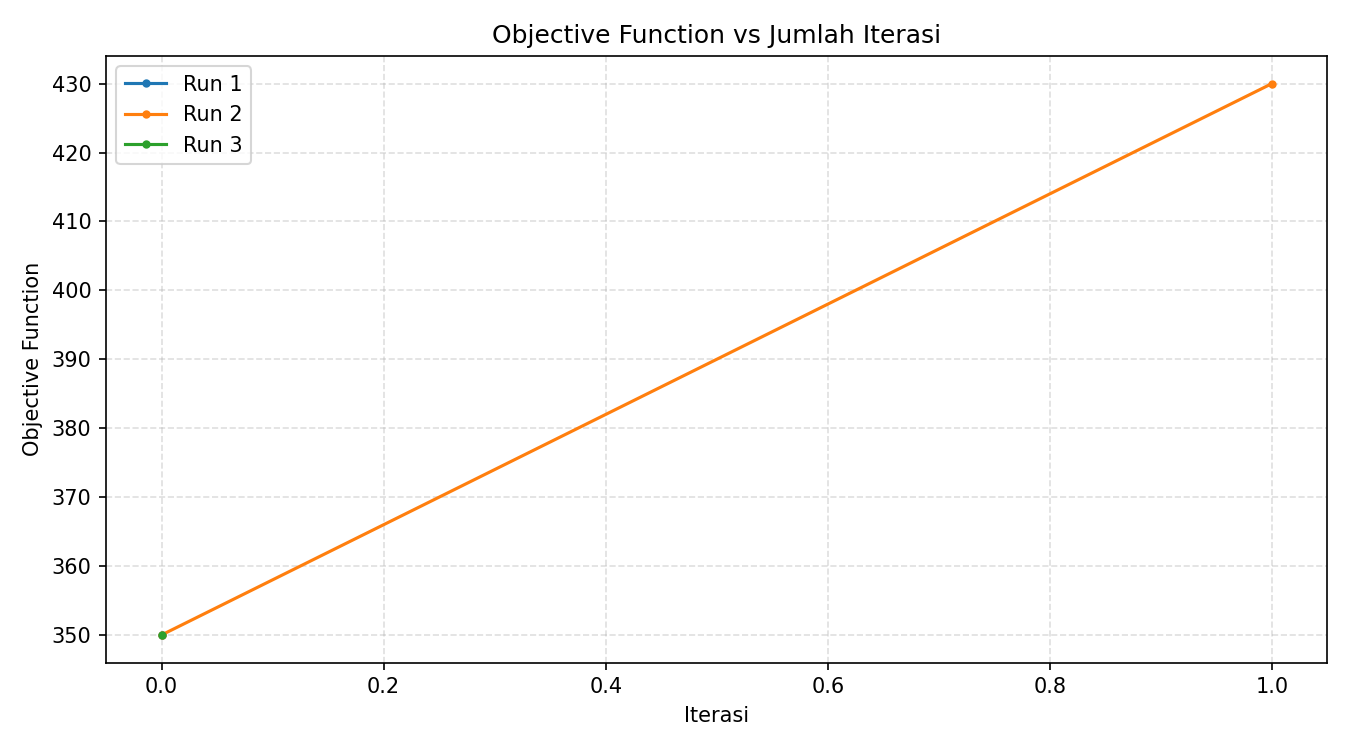
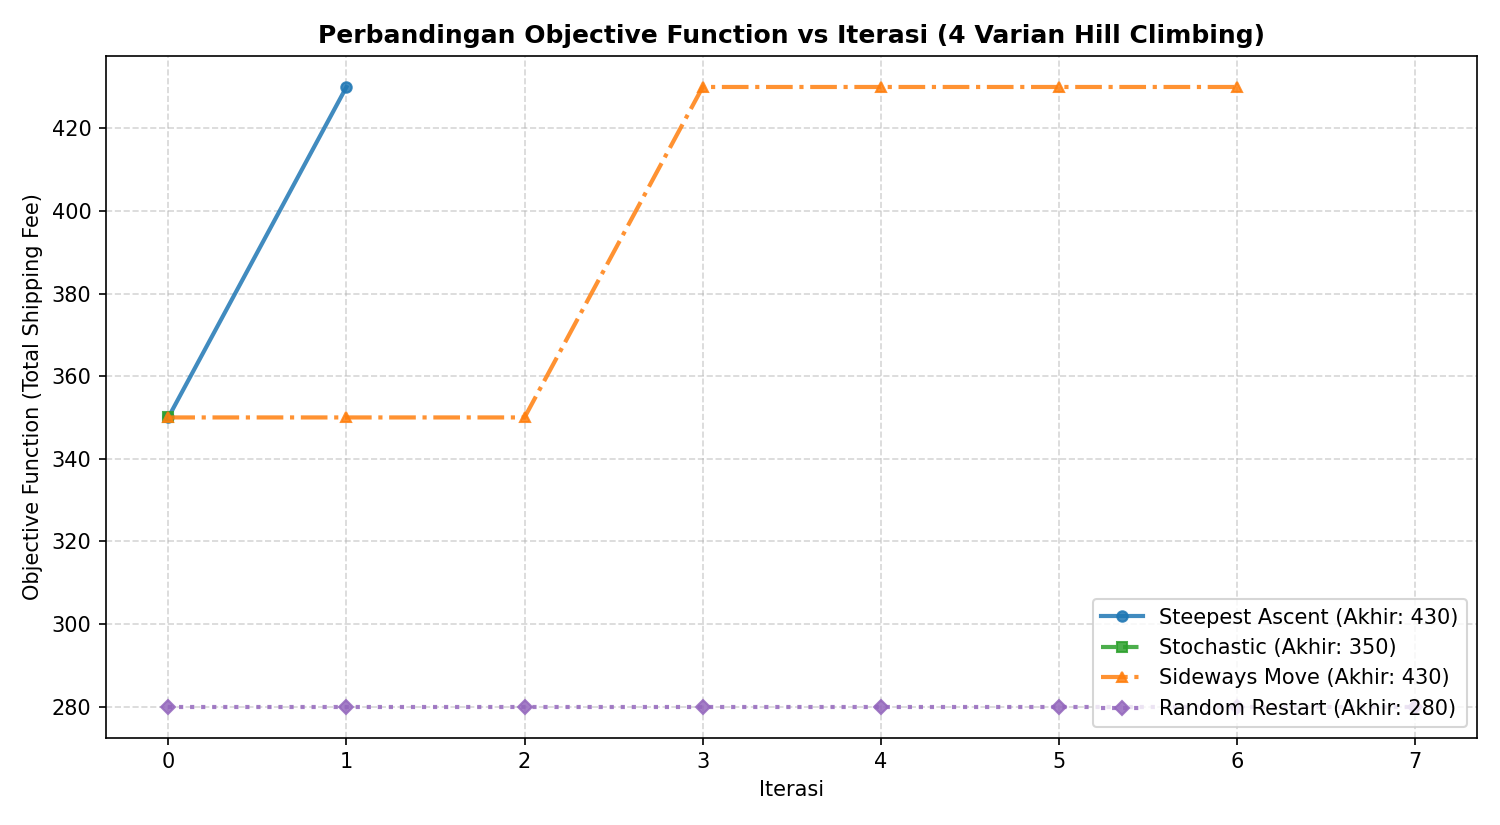
feat(hill-climbing): update run_experiment to execute and compare all 4 hill climbing variants

diff --git a/src/hill_climbing.py b/src/hill_climbing.py
@@ -200,6 +200,16 @@ def bikin_state_acak(vehicles_template, ship):
     return state
 
 
+# Class pembungkus tuple untuk random restart agar backward-compatible (4-tuple) sekaligus menyediakan history_score
+class RandomRestartResult(tuple):
+    def __new__(cls, best_vehicles, best_score, total_restarts, iterations_per_restart, history_score=None, initial_score=None):
+        return super().__new__(cls, (best_vehicles, best_score, total_restarts, iterations_per_restart))
+
+    def __init__(self, best_vehicles, best_score, total_restarts, iterations_per_restart, history_score=None, initial_score=None):
+        self.history_score = history_score if history_score is not None else [best_score]
+        self.initial_score = initial_score
+
+
 # 3. Random Restart Hill Climbing
 def random_restart_hill_climbing(ship, max_restarts=5, max_iterations_per_restart=1000, initial_vehicles=None, num_candidates=4):
     # Fleksibel jika dipanggil dengan urutan (initial_vehicles, ship, ...)
@@ -212,24 +222,37 @@ def random_restart_hill_climbing(ship, max_restarts=5, max_iterations_per_restar
     global_best_vehicles = None
     global_best_score = -1
     iterations_per_restart = []
+    cumulative_history = []
+    initial_score = None
 
     for restart_idx in range(1, max_restarts + 1):
         # Bangkitkan state awal acak baru
         start_state = bikin_state_acak(initial_vehicles, ship)
 
         # Jalankan stochastic hill climbing untuk restart ini
-        best_v, best_s, iters, _ = stochastic_hill_climbing(
+        best_v, best_s, iters, hist = stochastic_hill_climbing(
             start_state, ship, max_iterations=max_iterations_per_restart, num_candidates=num_candidates
         )
 
+        if initial_score is None and hist:
+            initial_score = hist[0]
+
         iterations_per_restart.append(iters)
+
+        # Catat akumulasi progres skor terbaik global
+        for s in hist:
+            if s > global_best_score or global_best_vehicles is None:
+                global_best_score = s
+            cumulative_history.append(global_best_score)
 
         if best_s > global_best_score or global_best_vehicles is None:
             global_best_score = best_s
             global_best_vehicles = copy.deepcopy(best_v)
 
     total_restarts = len(iterations_per_restart)
-    return global_best_vehicles, global_best_score, total_restarts, iterations_per_restart
+    return RandomRestartResult(
+        global_best_vehicles, global_best_score, total_restarts, iterations_per_restart, cumulative_history, initial_score
+    )
 
 
 def print_output(state, ship):
@@ -327,98 +350,186 @@ def bikin_kendaraan_awal():
 
 
 def run_experiment(show_plot=True):
+    random.seed(42)  # Seed tetap agar eksperimen perbandingan adil dan reproducible
+    
     # Inisialisasi kapal & kendaraan awal
     kapal = Ship(10, 10, 1000)
     kendaraan_awal = bikin_kendaraan_awal()
     skor_awal = objective_function(kendaraan_awal, kapal)
-    
+
+    # 1. Gambar & Simpan Initial State
     fig_awal, ax_awal = plt.subplots(figsize=(6, 6))
     plot_deck(kendaraan_awal, kapal, f"Initial State (objective = {skor_awal})", ax_awal)
     simpan_gambar(fig_awal, "initial_state.png")
-    
-    hasil = []
-    for run, seed in enumerate([1, 2, 3], start=1):
-        random.seed(seed)
-        print(f"\n--- EKSPERIMEN RUN {run} ---")
-        t0 = time.process_time()
-        best_vehicles, best_score, total_iterations, history_score = stochastic_hill_climbing(
-            kendaraan_awal, kapal, max_iterations=3000, num_candidates=4
-        )
-        duration = time.process_time() - t0
-        res = {
-            "run_id": run,
-            "initial_state": copy.deepcopy(kendaraan_awal),
-            "final_state": best_vehicles,
-            "skor_awal": history_score[0],
-            "final_score": best_score,
-            "score_history": history_score,
-            "total_evaluations": total_iterations,
-            "execution_time": duration,
-        }
-        hasil.append(res)
-        print(f"\nHasil Akhir Run {run}:")
-        print(f"Objective awal : {res['skor_awal']}")
-        print(f"Objective akhir: {res['final_score']}")
-        print(f"Jumlah iterasi : {res['total_evaluations']}")
-        print(f"Durasi         : {res['execution_time']:.4f} detik")
-        print_output(res["final_state"], kapal)
 
-    # Gambar 3 final state sekaligus
-    fig_akhir, axes_akhir = plt.subplots(1, 3, figsize=(15, 5))
-    for res, ax in zip(hasil, axes_akhir):
+    print("\n" + "=" * 65)
+    print(f"{'MENJALANKAN 4 VARIAN HILL CLIMBING':^65}")
+    print("=" * 65)
+
+    # 1. Steepest Ascent Hill Climbing
+    print("\n[1/4] Menjalankan Steepest Ascent Hill Climbing...")
+    t0 = time.process_time()
+    sa_v, sa_score, sa_iter, sa_hist = steepest_ascent_hill_climbing(
+        kendaraan_awal, kapal, max_iterations=3000, num_candidates=20
+    )
+    sa_dur = time.process_time() - t0
+    print(f"      OF: {sa_hist[0]} -> {sa_score} | Iterasi: {sa_iter} | Waktu: {sa_dur:.4f}s")
+
+    # 2. Stochastic Hill Climbing
+    print("\n[2/4] Menjalankan Stochastic Hill Climbing...")
+    t0 = time.process_time()
+    st_v, st_score, st_iter, st_hist = stochastic_hill_climbing(
+        kendaraan_awal, kapal, max_iterations=3000, num_candidates=4
+    )
+    st_dur = time.process_time() - t0
+    print(f"      OF: {st_hist[0]} -> {st_score} | Iterasi: {st_iter} | Waktu: {st_dur:.4f}s")
+
+    # 3. Sideways Move Hill Climbing
+    print("\n[3/4] Menjalankan Sideways Move Hill Climbing...")
+    t0 = time.process_time()
+    sw_v, sw_score, sw_iter, sw_hist = sideways_move_hill_climbing(
+        kendaraan_awal, kapal, max_iterations=3000, max_sideways=100, num_candidates=4
+    )
+    sw_dur = time.process_time() - t0
+    print(f"      OF: {sw_hist[0]} -> {sw_score} | Iterasi: {sw_iter} | Waktu: {sw_dur:.4f}s")
+
+    # 4. Random Restart Hill Climbing
+    print("\n[4/4] Menjalankan Random Restart Hill Climbing...")
+    t0 = time.process_time()
+    rr_res = random_restart_hill_climbing(
+        kapal, max_restarts=5, max_iterations_per_restart=1000, initial_vehicles=kendaraan_awal, num_candidates=4
+    )
+    rr_v, rr_score, rr_restarts, rr_iters = rr_res
+    rr_hist = rr_res.history_score
+    rr_init_of = rr_res.initial_score if rr_res.initial_score is not None else skor_awal
+    rr_dur = time.process_time() - t0
+    print(f"      OF: {rr_init_of} -> {rr_score} | Restarts: {rr_restarts} (total {sum(rr_iters)} iter) | Waktu: {rr_dur:.4f}s")
+
+    hasil_eksperimen = [
+        {
+            "nama": "Steepest Ascent",
+            "final_state": sa_v,
+            "skor_awal": sa_hist[0],
+            "final_score": sa_score,
+            "iterasi_info": f"{sa_iter} iterasi",
+            "durasi": sa_dur,
+            "history": sa_hist,
+            "color": "#1f77b4",
+            "marker": "o",
+            "linestyle": "-",
+        },
+        {
+            "nama": "Stochastic",
+            "final_state": st_v,
+            "skor_awal": st_hist[0],
+            "final_score": st_score,
+            "iterasi_info": f"{st_iter} iterasi",
+            "durasi": st_dur,
+            "history": st_hist,
+            "color": "#2ca02c",
+            "marker": "s",
+            "linestyle": "--",
+        },
+        {
+            "nama": "Sideways Move",
+            "final_state": sw_v,
+            "skor_awal": sw_hist[0],
+            "final_score": sw_score,
+            "iterasi_info": f"{sw_iter} iterasi",
+            "durasi": sw_dur,
+            "history": sw_hist,
+            "color": "#ff7f0e",
+            "marker": "^",
+            "linestyle": "-.",
+        },
+        {
+            "nama": "Random Restart",
+            "final_state": rr_v,
+            "skor_awal": rr_init_of,
+            "final_score": rr_score,
+            "iterasi_info": f"{sum(rr_iters)} iter ({rr_restarts} restarts)",
+            "durasi": rr_dur,
+            "history": rr_hist,
+            "color": "#9467bd",
+            "marker": "D",
+            "linestyle": ":",
+        },
+    ]
+
+    # Cetak detail muatan masing-masing algoritma
+    for item in hasil_eksperimen:
+        print(f"\n--- Hasil {item['nama']} ---")
+        print_output(item["final_state"], kapal)
+
+    # 2. Gambar 4 final state sekaligus (1 baris x 4 kolom)
+    fig_akhir, axes_akhir = plt.subplots(1, 4, figsize=(20, 5))
+    for item, ax in zip(hasil_eksperimen, axes_akhir):
         plot_deck(
-            res["final_state"],
+            item["final_state"],
             kapal,
-            f"Final State Run {res['run_id']}\nobjective = {res['final_score']}",
+            f"{item['nama']}\nObjective = {item['final_score']}",
             ax,
         )
     simpan_gambar(fig_akhir, "final_state.png")
 
-    # Plot skor vs iterasi
-    fig_plot, ax_plot = plt.subplots(figsize=(9, 5))
-    for res in hasil:
+    # 3. Plot skor vs iterasi dari ke-4 algoritma
+    fig_plot, ax_plot = plt.subplots(figsize=(10, 5.5))
+    for item in hasil_eksperimen:
         ax_plot.plot(
-            range(len(res["score_history"])),
-            res["score_history"],
-            marker="o",
-            markersize=3,
-            linewidth=1.5,
-            label=f"Run {res['run_id']}",
+            range(len(item["history"])),
+            item["history"],
+            label=f"{item['nama']} (Akhir: {item['final_score']})",
+            color=item["color"],
+            linestyle=item["linestyle"],
+            marker=item["marker"],
+            markersize=5,
+            linewidth=2,
+            alpha=0.85,
         )
-    ax_plot.set_title("Objective Function vs Jumlah Iterasi")
-    ax_plot.set_xlabel("Iterasi")
-    ax_plot.set_ylabel("Objective Function")
-    ax_plot.grid(True, linestyle="--", alpha=0.4)
-    ax_plot.legend()
+    ax_plot.set_title("Perbandingan Objective Function vs Iterasi (4 Varian Hill Climbing)", fontsize=12, fontweight="bold")
+    ax_plot.set_xlabel("Iterasi", fontsize=10)
+    ax_plot.set_ylabel("Objective Function (Total Shipping Fee)", fontsize=10)
+    ax_plot.grid(True, linestyle="--", alpha=0.5)
+    ax_plot.legend(loc="lower right", fontsize=10)
     simpan_gambar(fig_plot, "objective_vs_iterasi.png")
 
-    # Tabel hasil eksperimen 
-    fig_tab, ax_tab = plt.subplots(figsize=(10, 2.8))
+    # 4. Tabel hasil eksperimen perbandingan ke-4 algoritma
+    fig_tab, ax_tab = plt.subplots(figsize=(11, 3.2))
     ax_tab.axis("off")
-    ax_tab.set_title("Hasil Eksperimen Stochastic Hill Climbing")
+    ax_tab.set_title("Perbandingan Performa 4 Varian Hill Climbing", fontsize=12, fontweight="bold", pad=12)
     isi_tabel = []
-    for res in hasil:
+    for item in hasil_eksperimen:
         isi_tabel.append([
-            f"Run {res['run_id']}",
-            str(res["skor_awal"]),
-            str(res["final_score"]),
-            str(res["total_evaluations"]),
-            f"{res['execution_time']:.4f} s",
+            item["nama"],
+            str(item["skor_awal"]),
+            str(item["final_score"]),
+            item["iterasi_info"],
+            f"{item['durasi']:.4f} s",
         ])
     tabel = ax_tab.table(
         cellText=isi_tabel,
-        colLabels=["Run", "OF Awal", "OF Akhir", "Iterasi", "Durasi"],
+        colLabels=["Algoritma", "OF Awal", "OF Akhir", "Iterasi / Restart", "Durasi"],
         loc="center",
+        cellLoc="center",
     )
-    tabel.scale(1.2, 1.6)
+    tabel.auto_set_font_size(False)
+    tabel.set_fontsize(10)
+    tabel.scale(1.2, 1.8)
+    for col_idx in range(5):
+        cell = tabel[0, col_idx]
+        cell.set_facecolor("#4A90E2")
+        cell.set_text_props(weight="bold", color="white")
     simpan_gambar(fig_tab, "hasil_eksperimen.png")
 
-    print("\n===== RINGKASAN EKSPERIMEN =====")
-    for res in hasil:
-        print(
-            f"Run {res['run_id']}: OF {res['skor_awal']} -> {res['final_score']}, "
-            f"iterasi={res['total_evaluations']}, durasi={res['execution_time']:.4f}s"
-        )
+    print("\n" + "=" * 68)
+    print(f"{'RINGKASAN PERBANDINGAN 4 VARIAN HILL CLIMBING':^68}")
+    print("=" * 68)
+    print(f"{'Algoritma':<18} | {'OF Awal':<8} | {'OF Akhir':<8} | {'Iterasi / Restart':<26} | {'Durasi'}")
+    print("-" * 68)
+    for item in hasil_eksperimen:
+        print(f"{item['nama']:<18} | {item['skor_awal']:<8} | {item['final_score']:<8} | {item['iterasi_info']:<26} | {item['durasi']:.4f}s")
+    print("=" * 68)
+
 
     if show_plot:
         try:
